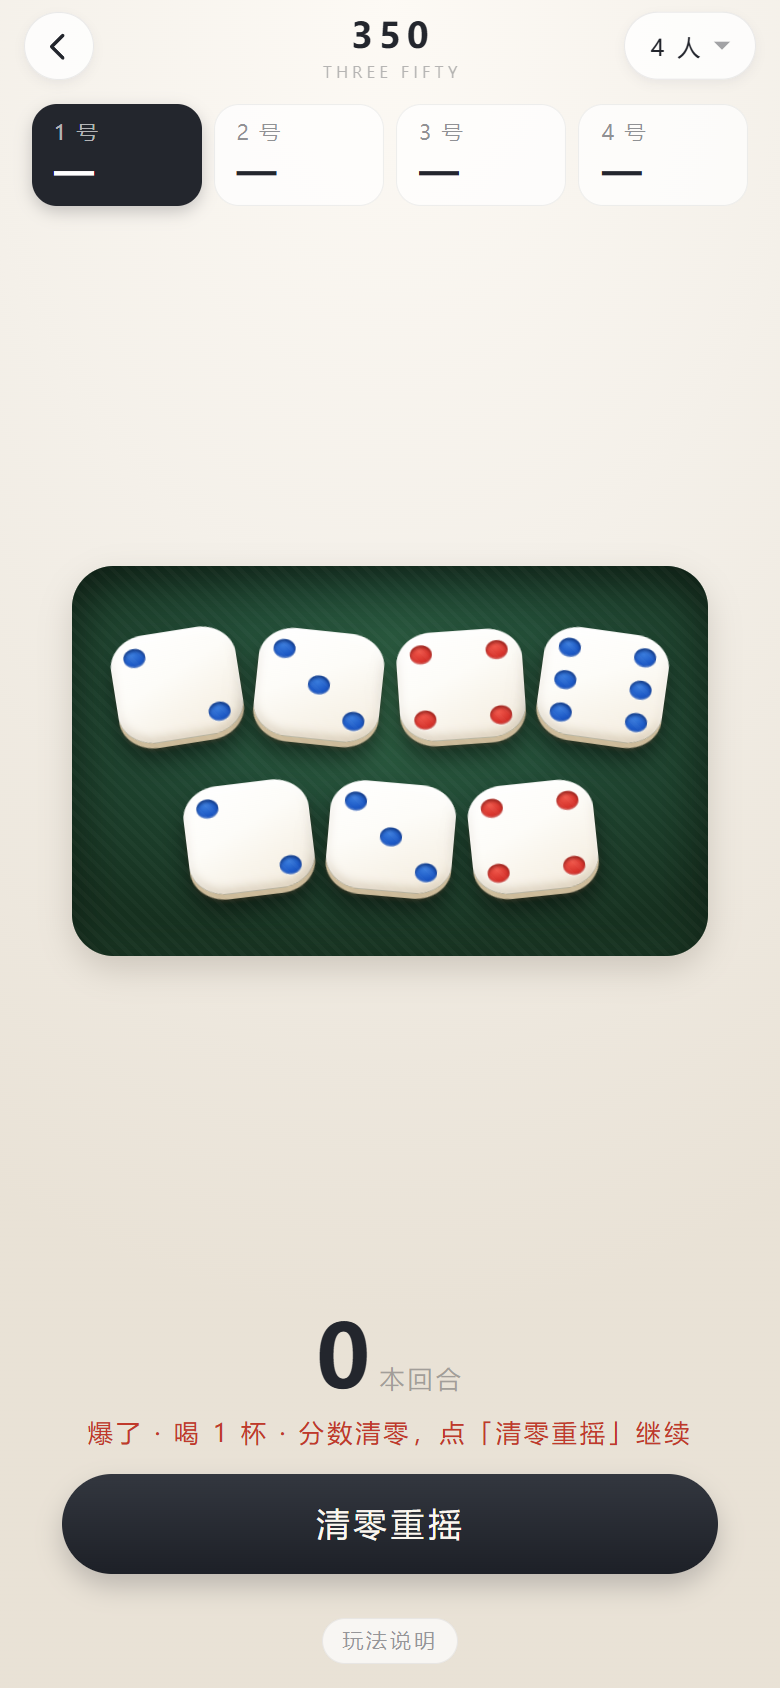
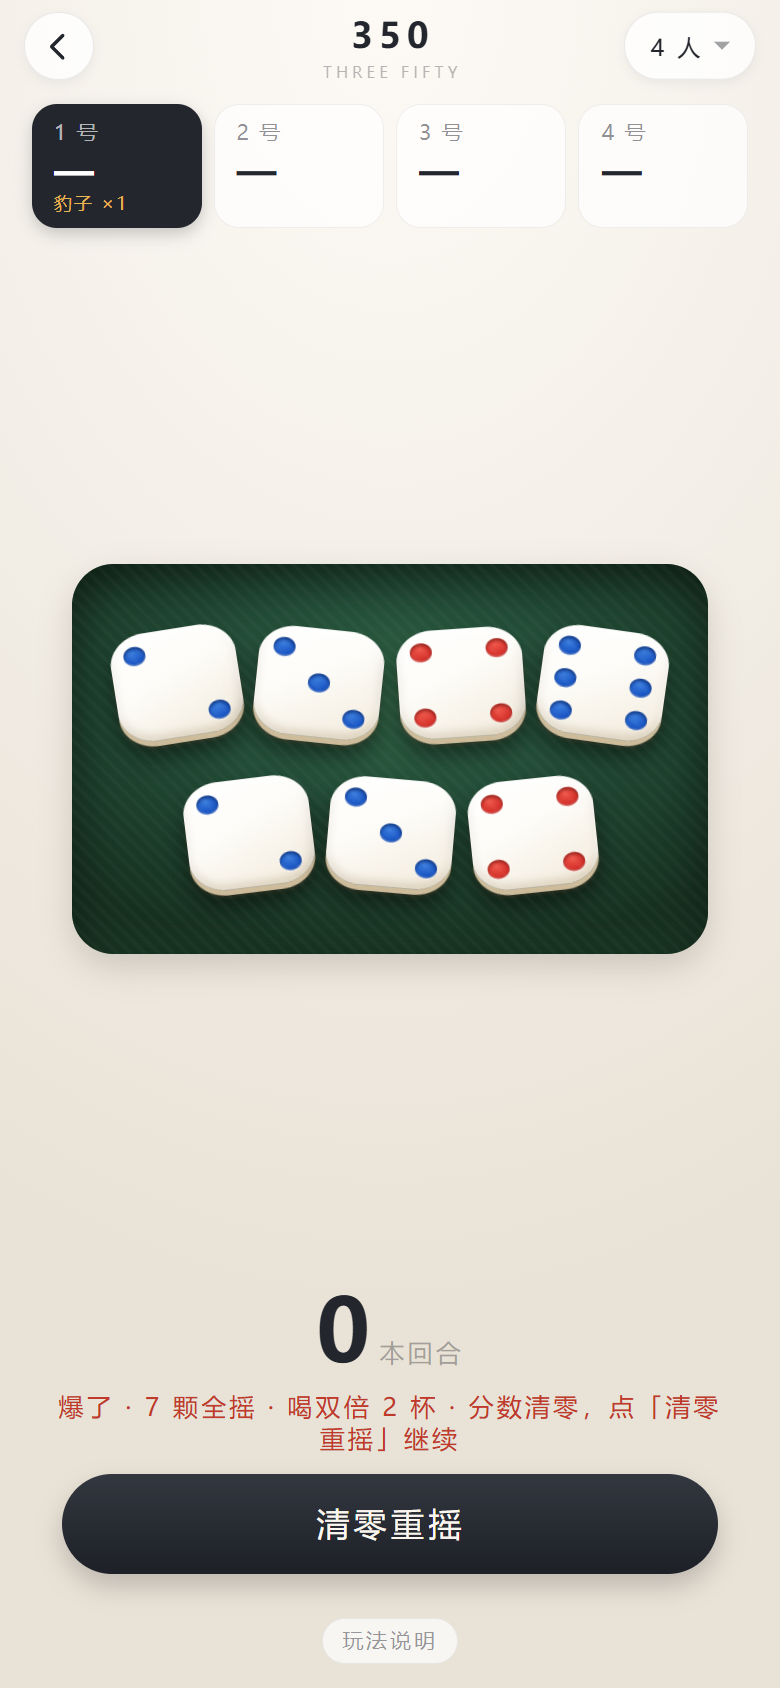
chore: sync

diff --git a/app/src/clean/assets/www/f350.js b/app/src/clean/assets/www/f350.js
@@ -185,15 +185,26 @@
         G.hand = blankHand();
       }
 
+      /* 豹子 / 爆掉都是「结果留在桌上等人按清零重摇」的状态，
+         这两步不能当成「可以接着收」恢复 —— 骰子还摆着，但一颗都不该点得动。 */
       if (o.phase === 'over') {
         G.phase = 'over';
+      } else if (o.phase === 'lion' && liveHand().length) {
+        G.phase = 'lion';
+      } else if (o.phase === 'bust' && liveHand().length) {
+        G.phase = 'bust';
       } else if (liveHand().length) {
         /* 桌上有牌就回「可以点」的状态：刚才没来得及收的那几颗还点得动 */
         G.phase = 'rolled';
       } else {
         G.phase = 'ready';
       }
-      if (G.phase === 'rolled') {
+      if (G.phase === 'lion') {
+        hint(o.lionPure ? '正豹！其他每人喝 2 杯 · 点「清零重摇」继续'
+                        : '15 豹！其他每人喝 1 杯 · 点「清零重摇」继续', 'gold');
+      } else if (G.phase === 'bust') {
+        hint(bustText(liveHand().length), 'warn');
+      } else if (G.phase === 'rolled') {
         if (G.took) hint('还剩 ' + liveHand().length + ' 颗 · 还能接着收，或者摇一摇');
         else hint('点要拿走的 1 和 5 · 不点的留在桌上继续摇');
       }
@@ -269,7 +280,7 @@
   /* ================= 动作 ================= */
 
   function onRoll() {
-    if (G.phase === 'bust' || G.phase === 'over') return;
+    if (G.phase === 'bust' || G.phase === 'lion' || G.phase === 'over') return;
     if (!G.hand.length) G.hand = blankHand();
 
     // 摇就是摇桌上全部骰子，不区分「上一把留下的」和「新拿回来的」
@@ -302,16 +313,18 @@
         if (list[q].v !== 5) allFive = false;
       }
       var pure = allOne || allFive;
+      G.lionPure = pure;
       current().lion = (current().lion || 0) + 1;
       G.round = 0;
       G.taken = [];
       G.took = false;
-      G.hand = blankHand();
-      G.phase = 'ready';
+      /* 豹子跟爆掉一样，结果留在桌上等人看 —— 一桌人都得看清是正豹还是 15 豹才认账，
+         骰子瞬间变空位等于什么都没发生。按钮只剩「清零重摇」，谁看够了谁按。 */
+      G.phase = 'lion';
       save();
       render();
-      hint(pure ? '正豹！其他每人喝 2 杯 · 分数清零重摇'
-                : '15 豹！其他每人喝 1 杯 · 分数清零重摇', 'gold');
+      hint(pure ? '正豹！其他每人喝 2 杯 · 点「清零重摇」继续'
+                : '15 豹！其他每人喝 1 杯 · 点「清零重摇」继续', 'gold');
       vibrate([16, 60, 16, 60, 26]);
       return;
     }
@@ -330,12 +343,21 @@
       G.phase = 'bust';
       save();
       render();
-      hint('爆了 · 喝 1 杯 · 分数清零，点「清零重摇」继续', 'warn');
+      hint(bustText(list.length), 'warn');
       vibrate([40, 70, 40]);
       return;
     }
 
     hint('点要拿走的 1 和 5 · 不点的留在桌上继续摇');
+  }
+
+  /* 爆掉的文案：一把里一个 1 一个 5 都没有就喝 1 杯；
+     但如果这一把是「7 颗全摇」（本回合还没收过骰子、桌上满 7 颗），规矩是喝双倍。
+     默认杯数写在玩法说明里，这里只是把它念出来，不改任何判定。 */
+  function bustText(n) {
+    return n >= DICE
+      ? '爆了 · 7 颗全摇 · 喝双倍 2 杯 · 分数清零，点「清零重摇」继续'
+      : '爆了 · 喝 1 杯 · 分数清零，点「清零重摇」继续';
   }
 
   function pickedSum() {
@@ -641,7 +663,7 @@
       } else {
         list.push({ t: '点骰子收分', cls: 'primary is-off', act: 'pick' });
       }
-    } else if (G.phase === 'bust') {
+    } else if (G.phase === 'bust' || G.phase === 'lion') {
       list.push({ t: '清零重摇', cls: 'primary', act: 'bust' });
     } else {
       var left = liveHand().length;
@@ -654,7 +676,7 @@
 
     /* 爆掉时不给锁分：本局分数已经清 0，锁无可锁，
        留一个灰按钮在旁边只会让人以为还能点 */
-    if (G.phase !== 'over' && G.phase !== 'bust') {
+    if (G.phase !== 'over' && G.phase !== 'bust' && G.phase !== 'lion') {
       var ok = G.round >= BASE;
       list.push({
         t: ok ? '锁 ' + G.round + ' 分' : '满 ' + BASE + ' 锁分',
@@ -1125,15 +1147,16 @@
       ],
       rules: [
         '拿一颗就少一颗。所以经常会放着 50 分不拿，把 5 留在桌上凑数量，继续搏 1 点。',
-        '一把里一个 1、一个 5 都没有 = 爆掉：本回合分数清零，拿回 7 颗重摇，还是你摇，不换人。',
-        '7 颗全是 1 和 5 = 豹子：记一次豹子，分数清零，继续摇。',
+        '一把里一个 1、一个 5 都没有 = 爆掉：本回合分数清零，结果留在桌上，点「清零重摇」才拿回 7 颗，还是你摇，不换人。',
+        '7 颗全是 1 和 5 = 豹子：记一次豹子，分数清零，同样点「清零重摇」再继续。',
         '封顶 700 分，到顶自动锁，不用手动点。',
         '比锁定的最终分数，高者赢；同分时先收手的排前面。'
       ],
       /* 这几条是桌上真正分酒的地方。App 只算分、只记豹子，
          喝多少由桌上自己定，所以单独一段，跟「规则」分开写。 */
       drinks: [
-        '<strong>爆掉</strong>（一把里没有 1 也没有 5）：这个躲不掉，<strong>自己喝 1 杯</strong>，然后清零重摇。',
+        '<strong>爆掉</strong>（一把里没有 1 也没有 5）：这个躲不掉，<strong>自己喝 1 杯</strong>；' +
+        '如果这一把是 <strong>7 颗全摇</strong>（还没收过骰子、桌上满 7 颗），要<strong>喝双倍 · 2 杯</strong>。然后清零重摇。',
         '<strong>摇出豹子</strong>：摇的人不喝，台上其他人一起喝 —— ' +
         '<strong>15 豹</strong>（1 和 5 混着）每人 <strong>1 杯</strong>；' +
         '<strong>正豹</strong>（清一色 1111111 或 5555555）每人 <strong>2 杯</strong>。',

diff --git a/app/src/full/assets/www/f350.js b/app/src/full/assets/www/f350.js
@@ -185,15 +185,26 @@
         G.hand = blankHand();
       }
 
+      /* 豹子 / 爆掉都是「结果留在桌上等人按清零重摇」的状态，
+         这两步不能当成「可以接着收」恢复 —— 骰子还摆着，但一颗都不该点得动。 */
       if (o.phase === 'over') {
         G.phase = 'over';
+      } else if (o.phase === 'lion' && liveHand().length) {
+        G.phase = 'lion';
+      } else if (o.phase === 'bust' && liveHand().length) {
+        G.phase = 'bust';
       } else if (liveHand().length) {
         /* 桌上有牌就回「可以点」的状态：刚才没来得及收的那几颗还点得动 */
         G.phase = 'rolled';
       } else {
         G.phase = 'ready';
       }
-      if (G.phase === 'rolled') {
+      if (G.phase === 'lion') {
+        hint(o.lionPure ? '正豹！其他每人喝 2 杯 · 点「清零重摇」继续'
+                        : '15 豹！其他每人喝 1 杯 · 点「清零重摇」继续', 'gold');
+      } else if (G.phase === 'bust') {
+        hint(bustText(liveHand().length), 'warn');
+      } else if (G.phase === 'rolled') {
         if (G.took) hint('还剩 ' + liveHand().length + ' 颗 · 还能接着收，或者摇一摇');
         else hint('点要拿走的 1 和 5 · 不点的留在桌上继续摇');
       }
@@ -269,7 +280,7 @@
   /* ================= 动作 ================= */
 
   function onRoll() {
-    if (G.phase === 'bust' || G.phase === 'over') return;
+    if (G.phase === 'bust' || G.phase === 'lion' || G.phase === 'over') return;
     if (!G.hand.length) G.hand = blankHand();
 
     // 摇就是摇桌上全部骰子，不区分「上一把留下的」和「新拿回来的」
@@ -302,16 +313,18 @@
         if (list[q].v !== 5) allFive = false;
       }
       var pure = allOne || allFive;
+      G.lionPure = pure;
       current().lion = (current().lion || 0) + 1;
       G.round = 0;
       G.taken = [];
       G.took = false;
-      G.hand = blankHand();
-      G.phase = 'ready';
+      /* 豹子跟爆掉一样，结果留在桌上等人看 —— 一桌人都得看清是正豹还是 15 豹才认账，
+         骰子瞬间变空位等于什么都没发生。按钮只剩「清零重摇」，谁看够了谁按。 */
+      G.phase = 'lion';
       save();
       render();
-      hint(pure ? '正豹！其他每人喝 2 杯 · 分数清零重摇'
-                : '15 豹！其他每人喝 1 杯 · 分数清零重摇', 'gold');
+      hint(pure ? '正豹！其他每人喝 2 杯 · 点「清零重摇」继续'
+                : '15 豹！其他每人喝 1 杯 · 点「清零重摇」继续', 'gold');
       vibrate([16, 60, 16, 60, 26]);
       return;
     }
@@ -330,12 +343,21 @@
       G.phase = 'bust';
       save();
       render();
-      hint('爆了 · 喝 1 杯 · 分数清零，点「清零重摇」继续', 'warn');
+      hint(bustText(list.length), 'warn');
       vibrate([40, 70, 40]);
       return;
     }
 
     hint('点要拿走的 1 和 5 · 不点的留在桌上继续摇');
+  }
+
+  /* 爆掉的文案：一把里一个 1 一个 5 都没有就喝 1 杯；
+     但如果这一把是「7 颗全摇」（本回合还没收过骰子、桌上满 7 颗），规矩是喝双倍。
+     默认杯数写在玩法说明里，这里只是把它念出来，不改任何判定。 */
+  function bustText(n) {
+    return n >= DICE
+      ? '爆了 · 7 颗全摇 · 喝双倍 2 杯 · 分数清零，点「清零重摇」继续'
+      : '爆了 · 喝 1 杯 · 分数清零，点「清零重摇」继续';
   }
 
   function pickedSum() {
@@ -641,7 +663,7 @@
       } else {
         list.push({ t: '点骰子收分', cls: 'primary is-off', act: 'pick' });
       }
-    } else if (G.phase === 'bust') {
+    } else if (G.phase === 'bust' || G.phase === 'lion') {
       list.push({ t: '清零重摇', cls: 'primary', act: 'bust' });
     } else {
       var left = liveHand().length;
@@ -654,7 +676,7 @@
 
     /* 爆掉时不给锁分：本局分数已经清 0，锁无可锁，
        留一个灰按钮在旁边只会让人以为还能点 */
-    if (G.phase !== 'over' && G.phase !== 'bust') {
+    if (G.phase !== 'over' && G.phase !== 'bust' && G.phase !== 'lion') {
       var ok = G.round >= BASE;
       list.push({
         t: ok ? '锁 ' + G.round + ' 分' : '满 ' + BASE + ' 锁分',
@@ -1125,15 +1147,16 @@
       ],
       rules: [
         '拿一颗就少一颗。所以经常会放着 50 分不拿，把 5 留在桌上凑数量，继续搏 1 点。',
-        '一把里一个 1、一个 5 都没有 = 爆掉：本回合分数清零，拿回 7 颗重摇，还是你摇，不换人。',
-        '7 颗全是 1 和 5 = 豹子：记一次豹子，分数清零，继续摇。',
+        '一把里一个 1、一个 5 都没有 = 爆掉：本回合分数清零，结果留在桌上，点「清零重摇」才拿回 7 颗，还是你摇，不换人。',
+        '7 颗全是 1 和 5 = 豹子：记一次豹子，分数清零，同样点「清零重摇」再继续。',
         '封顶 700 分，到顶自动锁，不用手动点。',
         '比锁定的最终分数，高者赢；同分时先收手的排前面。'
       ],
       /* 这几条是桌上真正分酒的地方。App 只算分、只记豹子，
          喝多少由桌上自己定，所以单独一段，跟「规则」分开写。 */
       drinks: [
-        '<strong>爆掉</strong>（一把里没有 1 也没有 5）：这个躲不掉，<strong>自己喝 1 杯</strong>，然后清零重摇。',
+        '<strong>爆掉</strong>（一把里没有 1 也没有 5）：这个躲不掉，<strong>自己喝 1 杯</strong>；' +
+        '如果这一把是 <strong>7 颗全摇</strong>（还没收过骰子、桌上满 7 颗），要<strong>喝双倍 · 2 杯</strong>。然后清零重摇。',
         '<strong>摇出豹子</strong>：摇的人不喝，台上其他人一起喝 —— ' +
         '<strong>15 豹</strong>（1 和 5 混着）每人 <strong>1 杯</strong>；' +
         '<strong>正豹</strong>（清一色 1111111 或 5555555）每人 <strong>2 杯</strong>。',

diff --git a/app/src/clean/assets/www/index.html b/app/src/clean/assets/www/index.html
@@ -63,7 +63,7 @@
 
     <div class="home-tip" id="homeTip"></div>
 
-    <div class="home-foot" id="homeVer">v1.10.7 · 仅供朋友聚会娱乐</div>
+    <div class="home-foot" id="homeVer">v1.10.8 · 仅供朋友聚会娱乐</div>
   </div>
 </div>
 
@@ -179,7 +179,7 @@
     <div class="hint" id="hint">点「摇一摇」开始这一局</div>
     <div class="btn-row" id="btnRow"></div>
     <div class="foot">
-      <span>v1.10.7</span>
+      <span>v1.10.8</span>
       <button class="mode-link" id="ruleBtn">玩法说明</button>
     </div>
   </div>

diff --git a/app/src/full/assets/www/index.html b/app/src/full/assets/www/index.html
@@ -63,7 +63,7 @@
 
     <div class="home-tip" id="homeTip"></div>
 
-    <div class="home-foot" id="homeVer">v1.10.7 · 仅供朋友聚会娱乐</div>
+    <div class="home-foot" id="homeVer">v1.10.8 · 仅供朋友聚会娱乐</div>
   </div>
 </div>
 
@@ -179,7 +179,7 @@
     <div class="hint" id="hint">点「摇一摇」开始这一局</div>
     <div class="btn-row" id="btnRow"></div>
     <div class="foot">
-      <span>v1.10.7</span>
+      <span>v1.10.8</span>
       <button class="mode-link" id="ruleBtn">玩法说明</button>
     </div>
   </div>

diff --git a/app/src/clean/assets/www/sw.js b/app/src/clean/assets/www/sw.js
@@ -1,5 +1,5 @@
 /* 离线缓存：装到桌面后断网也能玩 */
-var CACHE = 'liars-dice-clean-v33';
+var CACHE = 'liars-dice-clean-v34';
 var FILES = [
   './',
   './index.html',

diff --git a/app/src/full/assets/www/sw.js b/app/src/full/assets/www/sw.js
@@ -1,5 +1,5 @@
 /* 离线缓存：装到桌面后断网也能玩 */
-var CACHE = 'liars-dice-v33';
+var CACHE = 'liars-dice-v34';
 var FILES = [
   './',
   './index.html',

diff --git a/README.md b/README.md
@@ -160,10 +160,10 @@ APK 里的 `assets/www` 是从仓库外的两个源码目录同步来的（`liar
 | 骰子 | 固定 **7 颗** |
 | 计分 | **1 点 = 100 分，5 点 = 50 分**；2 / 3 / 4 / 6 不计分 |
 | 一轮怎么走 | 摇完**自己点**要拿走的 1 和 5 —— 点过的才算拿走，没点的留在桌上继续摇 |
-| 爆掉 | 一把里**一个 1 也没有、一个 5 也没有** → 本回合分清零，**等你按「清零重摇」**才拿回 7 颗继续。不换人，也不自动清屏。**摇的人喝 1 杯** |
+| 爆掉 | 一把里**一个 1 也没有、一个 5 也没有** → 本回合分清零，**等你按「清零重摇」**才拿回 7 颗继续。不换人，也不自动清屏。**摇的人喝 1 杯；但如果这一把是 7 颗全摇，要喝双倍 2 杯** |
 | 收手 | **满 350 分才能锁**，锁了就轮到下一位 |
 | 封顶 | **700 分**，到顶自动锁，不用手动点 |
-| 豹子 | 7 颗**全是 1 和 5** → 记 1 次豹子（只做记录，不影响胜负），分数清零，还是他继续摇。**摇的人不喝，台上其他人喝**：混着 1 和 5 的「15 豹」每人 1 杯，清一色 1111111 / 5555555 的「正豹」每人 2 杯 |
+| 豹子 | 7 颗**全是 1 和 5** → 记 1 次豹子（只做记录，不影响胜负），分数清零，**同样等你按「清零重摇」**才继续，还是他摇。**摇的人不喝，台上其他人喝**：混着 1 和 5 的「15 豹」每人 1 杯，清一色 1111111 / 5555555 的「正豹」每人 2 杯 |
 | 胜负 | 比锁定的最终分数，高者胜；**同分时先收手的排前面**，**分数最低的喝 2 杯** |
 
 <p align="center">
@@ -182,14 +182,21 @@ APK 里的 `assets/www` 是从仓库外的两个源码目录同步来的（`liar
 | 什么时候 | 谁喝 | 喝多少 |
 | --- | --- | --- |
 | **爆掉** —— 一把里一个 1 一个 5 都没有 | 摇的人自己，躲不掉 | **1 杯** |
+| **7 颗全摇还爆掉** —— 这一把桌上满 7 颗、一个都没收 | 摇的人自己 | **双倍 · 2 杯** |
 | **15 豹** —— 7 颗全是 1 和 5，1 和 5 混着 | 台上其他所有人 | 每人 **1 杯** |
 | **正豹** —— 清一色 `1111111` 或 `5555555` | 台上其他所有人 | 每人 **2 杯** |
 | **整局打完** —— 分数最低的那个 | 最后一名 | **2 杯** |
+
+爆掉那条的「双倍」是冲着**满手一把就空**去的：7 颗全摇、一个 1 一个 5 都没出，等于这一把白摇，
+桌上通常当加倍罚。已经收走几颗、剩 5 颗 6 颗再爆，就只算一杯。
 
 豹子这一条的关键是**摇的人不喝**：自己一分不涨，还得把分数清零重摇，代价已经先付了，一桌人端杯。
 
 所以打到中后段会有人专门去**拼豹子** —— 反正手气不好、分也追不上，干脆搏一把全桌陪你喝。
 这也是 350 比闷头算分好玩的地方：桌上多了一个「要不要赌一把」的选择。
+
+**豹子和爆掉都不自动翻篇**：摇出来那一刻骰子就停在桌上，底部只留一个「清零重摇」，
+谁看够了谁按 —— 一桌人得先看清是正豹还是 15 豹、该几个人端杯，再继续。
 
 杯数是**默认值**，开局前按自己的量说好，能加能减；喝不了酒的喝水、喝饮料一样算数。
 App 不记谁喝了多少，也记不了 —— 桌上说好的规矩比 App 重要。
@@ -223,7 +230,8 @@ App 不记谁喝了多少，也记不了 —— 桌上说好的规矩比 App 重
 </p>
 
 摇出来**一个 1 和一个 5 都没有**的时候，本回合的分数清零 —— 但桌上的 7 颗骰子**不会自己消失**。
-提示也把话说全了：「**爆了 · 喝 1 杯 · 分数清零**」，省得新上桌的人还要问一句「这个要不要喝」。
+提示也把话说全了，还分了档：「**爆了 · 喝 1 杯 · 分数清零**」；如果是 **7 颗全摇**爆的，
+直接写「**爆了 · 7 颗全摇 · 喝双倍 2 杯**」。省得新上桌的人还要问一句「这个要不要喝、喝几杯」。
 
 以前这里是 1.6 秒后自动拿回 7 颗，看着利索，实际一桌人经常还没看清点数就没了，
 只能听别人说「你去拿 7 颗」。现在改成：结果停在桌上，按钮只剩一个「**清零重摇**」，
@@ -231,6 +239,24 @@ App 不记谁喝了多少，也记不了 —— 桌上说好的规矩比 App 重
 
 顺带解释一下为什么爆掉时旁边那个「锁分」按钮也一起收起来了：本回合分数已经是 0，
 锁无可锁，留个灰按钮在旁边只会让人以为还能点。
+
+### 豹子也停在桌上，看够了再按
+
+<p align="center">
+  <img src="docs/shots/f350-lion.png" width="29%" alt="15 豹：7 颗 1 和 5 停在桌上，1 号卡上多了「豹子 ×1」，金提示写着其他每人喝 1 杯，底部只有「清零重摇」">
+</p>
+
+豹子以前是**瞬间翻篇**的：骰子立刻变回 7 个空位、分数归零，屏幕上只闪一下提示。
+一桌人还没数清是三个 1 四个 5 还是清一色，画面已经回到「摇一摇」了 ——
+看着很像「出了豹子就轮到下一位」，其实还是同一个人，只是没人看得见。
+
+现在豹子和爆掉一个待遇：**骰子原样停在桌上，底部只留一个「清零重摇」**，
+提示用金字写明「**正豹！其他每人喝 2 杯**」还是「**15 豹！其他每人喝 1 杯**」，
+玩家卡上同时记下「豹子 ×1」。
+
+- 谁看够了谁按，按了才拿回 7 颗，**还是同一个人继续摇**，不锁分也不换人
+- 没按就退出 App，回来说的还是这一步：骰子、提示、豹子标记都在
+- 这段停留不改任何判定 —— 记豹子、清零、喝几杯，都和以前一样，只是把「看」的时间留出来
 
 ### 「不点就不拿」是什么意思
 
@@ -304,7 +330,7 @@ App 不记谁喝了多少，也记不了 —— 桌上说好的规矩比 App 重
 
 <p align="center">
   <img src="docs/shots/rules.png" width="29%" alt="350 的玩法说明：操作三步 + 规则清单，最后一段是「输赢 · 喝多少」">
-  <img src="docs/shots/rules-drinks.png" width="29%" alt="往下滚：输赢 · 喝多少 —— 爆掉 1 杯、15 豹每人 1 杯、正豹每人 2 杯、整局最低 2 杯">
+  <img src="docs/shots/rules-drinks.png" width="29%" alt="往下滚：输赢 · 喝多少 —— 爆掉 1 杯（7 颗全摇双倍 2 杯）、15 豹每人 1 杯、正豹每人 2 杯、整局最低 2 杯">
 </p>
 <p align="center">
   <sub>同一个说明层：上面是操作和规则 → 往下滚是「输赢 · 喝多少」</sub>
@@ -319,11 +345,12 @@ App 不记谁喝了多少，也记不了 —— 桌上说好的规矩比 App 重
   不信就开、斋了 1 就只是 1。各地讲究不一样的地方，最后一句专门提醒「开打前先说好」
 - **350 规则**：完全按代码里的判定写 —— 1 点 100、5 点 50、不点就不拿、一炮无分清零、
   7 颗全是 1 和 5 记豹子、满 350 才能锁、封顶 700、同分先收手的排前面
-- **350 输赢**：多一段「**输赢 · 喝多少**」—— 爆掉自己 1 杯、15 豹其他人各 1 杯、正豹各 2 杯、
-  整局最低的 2 杯，并注明杯数只是默认值，开局前按自己的量定
+- **350 输赢**：多一段「**输赢 · 喝多少**」—— 爆掉自己 1 杯（**7 颗全摇爆掉双倍 2 杯**）、
+  15 豹其他人各 1 杯、正豹各 2 杯、整局最低的 2 杯，并注明杯数只是默认值，开局前按自己的量定
 
-摇出豹子、摇到爆掉的时候，底部那行提示也把杯数一起说了：**「正豹！其他每人喝 2 杯 · 分数清零重摇」**、
-**「15 豹！其他每人喝 1 杯 · 分数清零重摇」**、**「爆了 · 喝 1 杯 · 分数清零」**；
+摇出豹子、摇到爆掉的时候，底部那行提示也把杯数一起说了：**「正豹！其他每人喝 2 杯 · 点「清零重摇」继续」**、
+**「15 豹！其他每人喝 1 杯 · 点「清零重摇」继续」**、**「爆了 · 喝 1 杯 · 分数清零」**、
+**「爆了 · 7 颗全摇 · 喝双倍 2 杯」**；
 结算页标题下面写着「同分先收手的排前面 · **最低的喝 2 杯**」。
 不用翻说明，当下就知道该谁端杯。
 
